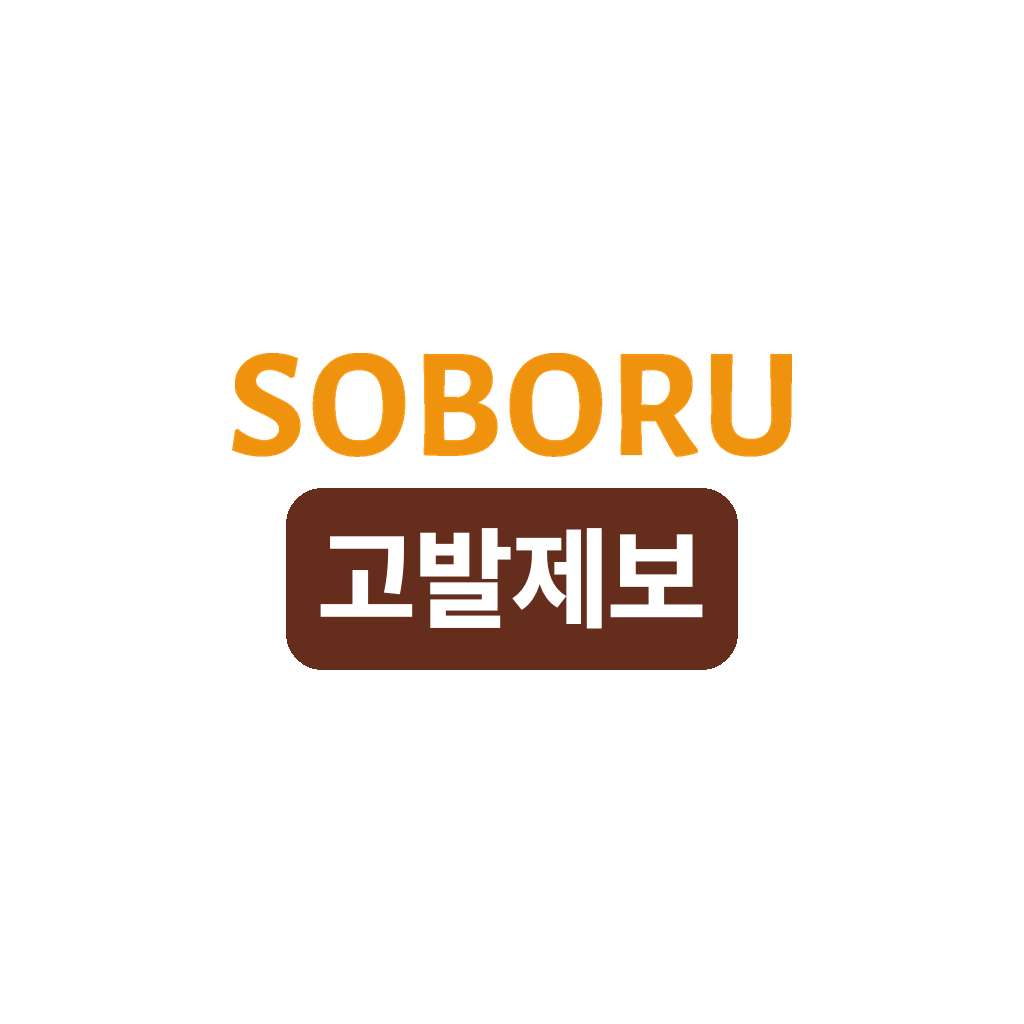
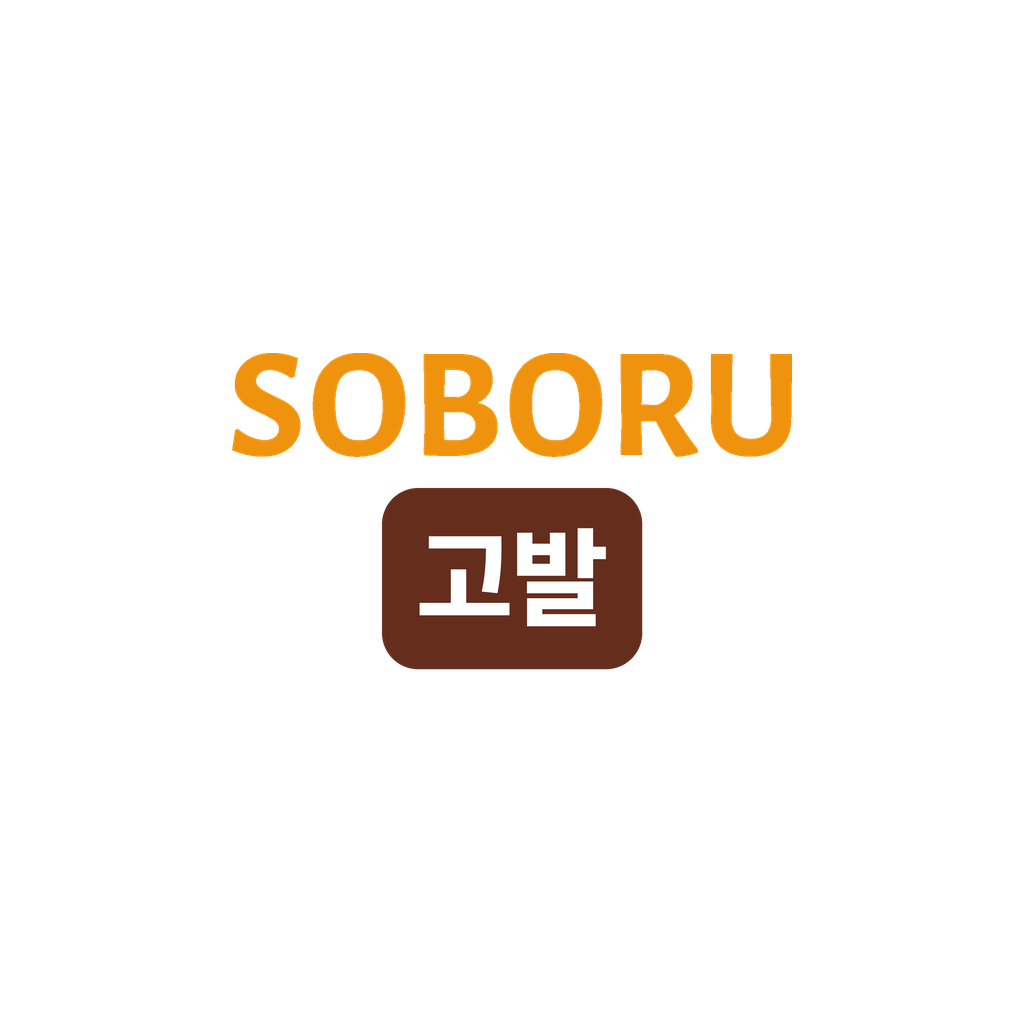
소보루고발 앱: 이름 소보루고발, 아이콘 'SOBORU + 고발', 아래 탭을 헤이마오터우쑤처럼 (홈·기업 순위·고발하기·둘러보기·내 정보)
운영자 2026-11-11: 앱 이름 소보루고발제보 → 소보루고발. 가운데 고발하기는 큰 동그란 버튼.

Claude-Session: https://claude.ai/code/session_01SGfBdtXmX7h9qt8XW4iLQw

Changed region(s): [[0.2812, 0.4688, 0.7188, 0.6562]]

diff --git a/soboru-app/src/TabBar.tsx b/soboru-app/src/TabBar.tsx
@@ -1,4 +1,4 @@
-// 아래 탭: 홈·제보 목록·제보하기·알림·내 제보 (소보루고발제보 앱). 앱 안에서는 사이트가 자기 탭바를 숨김 (templates/base.html)
+// 아래 탭 (소보루고발 앱, 운영자 2026-11-11 헤이마오터우쑤처럼): 홈·기업 순위·고발하기(가운데 큰 버튼)·둘러보기·내 정보. 앱 안에서는 사이트가 자기 탭바를 숨김 (templates/base.html)
 import * as Haptics from 'expo-haptics';
 import { Pressable, StyleSheet, Text, View } from 'react-native';
 import { useSafeAreaInsets } from 'react-native-safe-area-context';
@@ -12,21 +12,21 @@ const MUTE = '#9A918A';
 
 export function tabsFor(member: boolean): Tab[] {
   return [
-    // 소보루제보 앱 (운영자 2026-11-03): 소비자제보센터(consumerjebo.co.kr)를 띄우고, 제보하기는 글쓰기 제보(/report, 위에 대화로 제보하기 칸)
+    // 고발하기는 글쓰기 제보(/report, 위에 대화로 제보하기 칸). 알림은 내 정보 안에서 봐요.
     { key: 'home', label: '홈', path: '/' },
-    { key: 'board', label: '제보 목록', path: '/reports' },
-    { key: 'report', label: '제보하기', path: '/report' },
-    { key: 'life', label: '알림', path: member ? '/me/alerts' : '/login?next=/me/alerts' },
-    member ? { key: 'my', label: '내 제보', path: '/me' } : { key: 'my', label: '내 제보', path: '/lookup' },
+    { key: 'rank', label: '기업 순위', path: '/companies/rank' },
+    { key: 'report', label: '고발하기', path: '/report' },
+    { key: 'explore', label: '둘러보기', path: '/explore' },
+    member ? { key: 'my', label: '내 정보', path: '/me' } : { key: 'my', label: '내 정보', path: '/lookup' },
   ];
 }
 
 /** 지금 화면 주소(/life/12 등)에 맞는 탭 */
 export function activeTab(path: string): string {
-  if (path === '/' || path === '') return 'home';
-  if (path.startsWith('/me/alerts')) return 'life';
-  if (path.startsWith('/report') && !path.startsWith('/reports')) return 'report';
-  if (['/reports', '/companies', '/board'].some((x) => path.startsWith(x))) return 'board';
+  if (path === '/' || path === '' || path.startsWith('/reports')) return 'home';
+  if (path.startsWith('/report')) return 'report';
+  if (path.startsWith('/companies')) return 'rank';
+  if (path.startsWith('/explore')) return 'explore';
   if (path.startsWith('/me') || path.startsWith('/lookup')) return 'my';
   return '';
 }
@@ -36,10 +36,10 @@ function Icon({ name, color }: { name: string; color: string }) {
   return (
     <Svg width={23} height={23} viewBox="0 0 24 24">
       {name === 'home' && <Path d="M4 11l8-7 8 7v9h-5v-6H9v6H4z" {...p} />}
-      {name === 'life' && (<><Path d="M6 16V11a6 6 0 0112 0v5l1.5 2h-15z" {...p} /><Path d="M10 20.5a2 2 0 004 0" {...p} /></>)}
-      {name === 'board' && (<><Path d="M5 4h14v16H5z" {...p} /><Path d="M8.5 9h7M8.5 13h7M8.5 17h4" {...p} /></>)}
+      {name === 'rank' && (<><Path d="M5 20V12M12 20V5M19 20v-6" {...p} strokeWidth={2.4} /><Path d="M3 20.5h18" {...p} /></>)}
+      {name === 'explore' && (<><Circle cx={12} cy={12} r={8.5} {...p} /><Path d="M15.5 8.5l-2 5-5 2 2-5z" {...p} /></>)}
       {name === 'my' && (<><Circle cx={12} cy={8.5} r={4} {...p} /><Path d="M4 21c.9-4 4-6 8-6s7.1 2 8 6" {...p} /></>)}
-      {name === 'report' && <Path d="M12 5v14M5 12h14" {...p} strokeWidth={2.6} />}
+      {name === 'report' && (<><Path d="M12 4.5v9" {...p} strokeWidth={3} /><Circle cx={12} cy={18.5} r={1.4} fill={color} /></>)}
     </Svg>
   );
 }
@@ -76,7 +76,7 @@ export default function TabBar({ tabs, active, onPress }: { tabs: Tab[]; active:
 const s = StyleSheet.create({
   bar: { flexDirection: 'row', backgroundColor: '#FFFFFF', borderTopWidth: StyleSheet.hairlineWidth, borderTopColor: '#E8E2DC', paddingTop: 6 },
   tab: { flex: 1, alignItems: 'center', justifyContent: 'flex-end', gap: 3, minHeight: 50 },
-  plus: { width: 38, height: 38, borderRadius: 14, backgroundColor: ORANGE, alignItems: 'center', justifyContent: 'center', marginTop: -6,
+  plus: { width: 50, height: 50, borderRadius: 25, backgroundColor: ORANGE, alignItems: 'center', justifyContent: 'center', marginTop: -20, borderWidth: 3, borderColor: '#FFFFFF',
     shadowColor: ORANGE, shadowOpacity: 0.32, shadowRadius: 7, shadowOffset: { width: 0, height: 4 }, elevation: 4 },
   label: { fontSize: 11, fontWeight: '600' },
 });

diff --git a/soboru-app/src/App.tsx b/soboru-app/src/App.tsx
@@ -1,4 +1,4 @@
-// 소보루고발제보 앱 (운영자 2026-11-09 이름 바꿈): 사이트(consumerjebo.co.kr, app.json extra.site)를 웹뷰로 띄우고, 아래 탭·푸시 알림·Apple 로그인·공유·오프라인 화면은 앱이 직접 맡는다.
+// 소보루고발 앱 (운영자 2026-11-11 이름 바꿈): 사이트(consumerjebo.co.kr, app.json extra.site)를 웹뷰로 띄우고, 아래 탭·푸시 알림·Apple 로그인·공유·오프라인 화면은 앱이 직접 맡는다.
 // 사이트와는 templates/app_bridge.html의 window.SoboruApp으로 주고받는다.
 import * as AppleAuthentication from 'expo-apple-authentication';
 import Constants from 'expo-constants';
